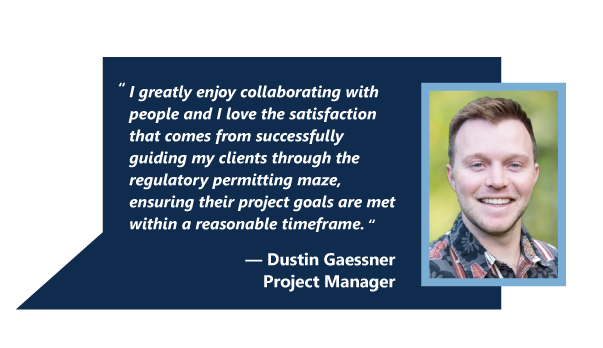
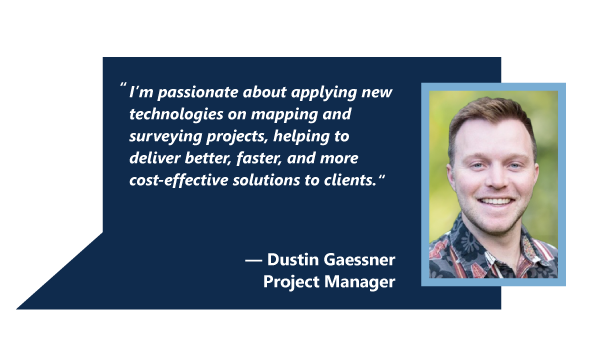
commit 2

Changed region(s): [[0.209, 0.2299, 0.6567, 0.6609], [0.1791, 0.2299, 0.209, 0.2586]]

diff --git a/index.hyperesources/index_hype_generated_script.js b/index.hyperesources/index_hype_generated_script.js
@@ -3,5 +3,5 @@
 (function(){(function m(){function k(a,b,c,d){var e=!1;null==window[a]&&(null==window[b]?(window[b]=[],window[b].push(m),a=document.getElementsByTagName("head")[0],b=document.createElement("script"),e=l,false==!0&&(e=""),b.type="text/javascript",""!=d&&(b.integrity=d,b.setAttribute("crossorigin","anonymous")),b.src=e+"/"+c,a.appendChild(b)):window[b].push(m),e=!0);return e}var l="index.hyperesources",f="index",g="index_hype_container";if(false==
 !1)try{for(var c=document.getElementsByTagName("script"),a=0;a<c.length;a++){var d=c[a].src,b=null!=d?d.indexOf("/index_hype_generated_script.js"):-1;if(-1!=b){l=d.substr(0,b);break}}}catch(p){}c=navigator.userAgent.match(/MSIE (\d+\.\d+)/);c=parseFloat(c&&c[1])||null;d=!0==(null!=window.HYPE_734F||null!=window.HYPE_dtl_734F)||false==!0||null!=c&&10>c;a=!0==d?"HYPE-734.full.min.js":"HYPE-734.thin.min.js";c=!0==d?"F":"T";d=d?"":
 "";if(false==!1&&(a=k("HYPE_734"+c,"HYPE_dtl_734"+c,a,d),false==!0&&(a=a||k("HYPE_w_734","HYPE_wdtl_734","HYPE-734.waypoints.min.js","")),false==!0&&(a=a||k("Matter","HYPE_pdtl_734","HYPE-734.physics.min.js","")),a))return;d=window.HYPE.documents;if(null!=d[f]){b=1;a=f;do f=""+a+"-"+b++;while(null!=d[f]);for(var e=document.getElementsByTagName("div"),
-b=!1,a=0;a<e.length;a++)if(e[a].id==g&&null==e[a].getAttribute("HYP_dn")){var b=1,h=g;do g=""+h+"-"+b++;while(null!=document.getElementById(g));e[a].id=g;b=!0;break}if(!1==b)return}b=[];b=[];e={};h={};for(a=0;a<b.length;a++)try{h[b[a].identifier]=b[a].name,e[b[a].name]=eval("(function(){return "+b[a].source+"})();")}catch(n){window.console&&window.console.log(n),e[b[a].name]=function(){}}c=new window["HYPE_734"+c](f,g,{"10":{p:1,n:"adrienne_quote.png",g:"252",t:"@1x"},"2":{p:1,n:"lines.png",g:"23",t:"@1x"},"15":{p:1,n:"Keith_quote.png",g:"256",o:true,t:"@1x"},"-2":{n:"blank.gif"},"3":{p:1,n:"peeps.png",g:"25",t:"@1x"},"11":{p:1,n:"zach_quote-1.png",g:"86",t:"@1x"},"4":{p:1,n:"blue_dot.png",g:"59",o:true,t:"@1x"},"16":{p:1,n:"Keith_quote_2x.png",g:"256",o:true,t:"@2x"},"5":{p:1,n:"blue_dot_2x.png",g:"59",o:true,t:"@2x"},"12":{p:1,n:"Vipul_quote.png",g:"160",t:"@1x"},"6":{p:1,n:"laurie_M_quote.png",g:"126",t:"@1x"},"13":{p:1,n:"allison_quote.png",g:"254",o:true,t:"@1x"},"7":{p:1,n:"lisa_quote.png",g:"196",t:"@1x"},"-1":{n:"PIE.htc"},"0":{p:1,n:"map.png",g:"19",t:"@1x"},"8":{p:1,n:"Dustin_quote.png",g:"214",t:"@1x"},"14":{p:1,n:"allison_quote_2x.png",g:"254",o:true,t:"@2x"},"1":{p:1,n:"state_lines.png",g:"37",t:"@1x"},"9":{p:1,n:"erlin_quote.png",g:"234",t:"@1x"}},l,[],e,[{n:"opening",o:"1",X:[0]},{n:"adrienne",o:"236",X:[1]},{n:"Erlin",o:"218",X:[2]},{n:"zach",o:"70",X:[3]},{n:"Allison",o:"88",X:[4]},{n:"Laurie",o:"110",X:[5]},{n:"vipul",o:"144",X:[6]},{n:"Keith",o:"162",X:[7]},{n:"Lisa",o:"180",X:[8]},{n:"dustin",o:"198",X:[9]}],
-[{o:"3",p:"600px",cA:false,Y:1240,Z:800,L:[],c:"#FFF",bY:1,d:1240,U:{},T:{kTimelineDefaultIdentifier:{q:false,z:2,i:"kTimelineDefaultIdentifier",n:"Main Timeline",a:[{f:"c",y:0,z:1,i:"e",e:0,s:1,o:"263"},{f:"c",y:0,z:1,i:"e",e:0,s:1,o:"268"},{f:"c",y:0,z:1,i:"e",e:0,s:1,o:"258"},{f:"c",y:0,z:1,i:"e",e:0,s:1,o:"261"},{f:"c",y:0,z:1,i:"e",e:0,s:1,o:"264"},{f:"c",y:0,z:1,i:"e",e:0,s:1,o:"266"},{f:"c",y:0,z:1,i:"e",e:0,s:1,o:"270"},{f:"c",y:0,z:1,i:"e",e:0,s:1,o:"259"},{f:"c",y:0,z:1,i:"e",e:0,s:1,o:"262"},{f:"c",y:1,z:1,i:"e",e:1,s:0,o:"263"},{f:"c",y:1,z:1,i:"e",e:1,s:0,o:"268"},{f:"c",y:1,z:1,i:"e",e:1,s:0,o:"258"},{f:"c",y:1,z:1,i:"e",e:1,s:0,o:"261"},{f:"c",y:1,z:1,i:"e",e:1,s:0,o:"264"},{f:"c",y:1,z:1,i:"e",e:1,s:0,o:"266"},{f:"c",y:1,z:1,i:"e",e:1,s:0,o:"270"},{f:"c",y:1,z:1,i:"e",e:1,s:0,o:"259"},{f:"c",y:1,z:1,i:"e",e:1,s:0,o:"262"},{f:"c",p:2,y:2,z:0,i:"ActionHandler",s:{a:[{b:"kTimelineDefaultIdentifier",p:3,z:false,symbolOid:"2"}]},o:"kTimelineDefaultIdentifier"},{y:2,i:"e",s:1,z:0,o:"263",f:"c"},{y:2,i:"e",s:1,z:0,o:"268",f:"c"},{y:2,i:"e",s:1,z:0,o:"258",f:"c"},{y:2,i:"e",s:1,z:0,o:"261",f:"c"},{y:2,i:"e",s:1,z:0,o:"264",f:"c"},{y:2,i:"e",s:1,z:0,o:"266",f:"c"},{y:2,i:"e",s:1,z:0,o:"270",f:"c"},{y:2,i:"e",s:1,z:0,o:"259",f:"c"},{y:2,i:"e",s:1,z:0,o:"262",f:"c"}],f:30,b:[]}},bZ:180,O:["260","265","269","267","259","270","263","261","264","262","268","258","266"],n:"Untitled Layout","_":0,v:{"269":{h:"19",p:"no-repeat",x:"visible",a:0,dB:"img",q:"100% 100%",j:"absolute",r:"inline",z:1,k:"div",b:0,d:800,c:1240},"258":{aD:{a:[{d:0.25,p:1,g:2,e:"144"}]},p:"no-repeat",x:"visible",h:"59",q:"100% 100%",a:149,j:"absolute",r:"inline",z:8,b:541,dB:"img",d:39,k:"div",c:39,e:1,aP:"pointer"},"264":{aD:{a:[{d:0.25,p:1,g:2,e:"162"}]},p:"no-repeat",x:"visible",h:"59",q:"100% 100%",a:487,j:"absolute",r:"inline",z:10,b:318,dB:"img",d:39,k:"div",c:39,e:1,aP:"pointer"},"270":{aD:{a:[{d:0.5,p:1,g:2,e:"180"}]},p:"no-repeat",x:"visible",h:"59",q:"100% 100%",a:793,j:"absolute",r:"inline",z:12,b:279,dB:"img",d:39,k:"div",c:39,e:1,aP:"pointer"},"267":{h:"23",p:"no-repeat",x:"visible",a:20,dB:"img",q:"100% 100%",j:"absolute",r:"inline",z:5,b:20,k:"div",d:800,c:1240,e:1},"262":{aD:{a:[{d:0.5,p:1,g:2,e:"236"}]},p:"no-repeat",x:"visible",h:"59",q:"100% 100%",a:1135,j:"absolute",r:"inline",z:14,b:464,dB:"img",d:39,k:"div",c:39,e:1,aP:"pointer"},"265":{h:"37",p:"no-repeat",x:"visible",a:0,dB:"img",q:"100% 100%",j:"absolute",r:"inline",z:2,k:"div",b:0,d:800,c:1240},"260":{h:"25",p:"no-repeat",x:"visible",a:4,dB:"img",q:"100% 100%",j:"absolute",r:"inline",z:4,k:"div",b:0,d:800,c:1240},"259":{aD:{a:[{d:0.25,p:1,g:2,e:"218"}]},p:"no-repeat",x:"visible",h:"59",q:"100% 100%",a:1019,j:"absolute",r:"inline",z:13,b:230,dB:"img",d:39,k:"div",c:39,e:1,aP:"pointer"},"268":{aD:{a:[{d:0.25,p:1,g:2,e:"110"}]},p:"no-repeat",x:"visible",h:"59",q:"100% 100%",a:85,j:"absolute",r:"inline",z:7,b:472,dB:"img",d:39,k:"div",c:39,e:1,aP:"pointer"},"263":{aD:{a:[{d:0.25,p:1,g:2,e:"70"}]},p:"no-repeat",x:"visible",h:"59",q:"100% 100%",a:124,j:"absolute",r:"inline",b:310,z:6,dB:"img",d:39,k:"div",c:39,e:1,aP:"pointer",bD:"none"},"266":{aD:{a:[{d:0.5,p:1,g:2,e:"198"}]},p:"no-repeat",x:"visible",h:"59",q:"100% 100%",a:387,j:"absolute",r:"inline",z:11,b:606,dB:"img",d:39,k:"div",c:39,e:1,aP:"pointer"},"261":{aD:{a:[{d:0.25,p:1,g:2,e:"88"}]},p:"no-repeat",x:"visible",h:"59",q:"100% 100%",a:228,j:"absolute",r:"inline",z:9,b:305,dB:"img",d:39,k:"div",c:39,e:1,aP:"pointer"}}},{o:"251",p:"600px",cA:false,Y:1240,Z:800,L:[],c:"#FFF",bY:1,d:1240,U:{},T:{kTimelineDefaultIdentifier:{q:false,z:0,i:"kTimelineDefaultIdentifier",n:"Main Timeline",a:[],f:30,b:[]}},bZ:180,O:["273","275","271","272","274","276"],n:"Untitled Layout","_":1,v:{"275":{h:"37",p:"no-repeat",x:"visible",a:0,dB:"img",q:"100% 100%",j:"absolute",r:"inline",z:2,k:"div",b:0,d:800,c:1240},"272":{h:"23",p:"no-repeat",x:"visible",a:20,dB:"img",q:"100% 100%",j:"absolute",r:"inline",z:5,b:20,k:"div",d:800,c:1240,e:1},"276":{h:"59",p:"no-repeat",x:"visible",a:1135,q:"100% 100%",b:464,j:"absolute",r:"inline",z:15,dB:"img",k:"div",d:39,c:39,e:1,aP:"pointer",aC:{a:[{d:0.25,p:1,g:2,e:"1"}]}},"273":{h:"25",p:"no-repeat",x:"visible",a:4,dB:"img",q:"100% 100%",j:"absolute",r:"inline",z:4,k:"div",b:0,d:800,c:1240},"274":{h:"252",p:"no-repeat",x:"visible",a:581,dB:"img",q:"100% 100%",j:"absolute",r:"inline",z:6,k:"div",b:442,d:348,c:603},"271":{h:"19",p:"no-repeat",x:"visible",a:0,dB:"img",q:"100% 100%",j:"absolute",r:"inline",z:1,k:"div",b:0,d:800,c:1240}}},{o:"233",p:"600px",cA:false,Y:1240,Z:800,L:[],c:"#FFF",bY:1,d:1240,U:{},T:{kTimelineDefaultIdentifier:{q:false,z:0,i:"kTimelineDefaultIdentifier",n:"Main Timeline",a:[],f:30,b:[]}},bZ:180,O:["277","281","278","279","280","282"],n:"Untitled Layout","_":2,v:{"280":{h:"234",p:"no-repeat",x:"visible",a:471,dB:"img",q:"100% 100%",j:"absolute",r:"inline",z:6,k:"div",b:203,d:348,c:603},"279":{h:"23",p:"no-repeat",x:"visible",a:20,dB:"img",q:"100% 100%",j:"absolute",r:"inline",z:5,b:20,k:"div",d:800,c:1240,e:1},"281":{h:"37",p:"no-repeat",x:"visible",a:0,dB:"img",q:"100% 100%",j:"absolute",r:"inline",z:2,k:"div",b:0,d:800,c:1240},"277":{h:"25",p:"no-repeat",x:"visible",a:4,dB:"img",q:"100% 100%",j:"absolute",r:"inline",z:4,k:"div",b:0,d:800,c:1240},"282":{h:"59",p:"no-repeat",x:"visible",a:1019,q:"100% 100%",b:230,j:"absolute",r:"inline",z:14,dB:"img",k:"div",d:39,c:39,e:1,aP:"pointer",aC:{a:[{d:0.25,p:1,g:2,e:"1"}]}},"278":{h:"19",p:"no-repeat",x:"visible",a:0,dB:"img",q:"100% 100%",j:"absolute",r:"inline",z:1,k:"div",b:0,d:800,c:1240}}},{o:"85",p:"600px",cA:false,Y:1240,Z:800,L:[],c:"#FFF",bY:1,d:1240,U:{},T:{kTimelineDefaultIdentifier:{q:false,z:0,i:"kTimelineDefaultIdentifier",n:"Main Timeline",a:[],f:30,b:[]}},bZ:180,O:["285","288","284","287","283","286"],n:"Untitled Layout","_":3,v:{"287":{h:"23",p:"no-repeat",x:"visible",a:20,dB:"img",q:"100% 100%",j:"absolute",r:"inline",z:5,b:20,k:"div",d:800,c:1240,e:1},"284":{h:"19",p:"no-repeat",x:"visible",a:0,dB:"img",q:"100% 100%",j:"absolute",r:"inline",z:1,k:"div",b:0,d:800,c:1240},"288":{h:"37",p:"no-repeat",x:"visible",a:0,dB:"img",q:"100% 100%",j:"absolute",r:"inline",z:2,k:"div",b:0,d:800,c:1240},"285":{h:"25",p:"no-repeat",x:"visible",a:4,dB:"img",q:"100% 100%",j:"absolute",r:"inline",z:4,k:"div",b:0,d:800,c:1240},"286":{h:"59",p:"no-repeat",x:"visible",a:124,q:"100% 100%",b:310,j:"absolute",r:"inline",z:7,dB:"img",k:"div",d:39,c:39,e:1,aP:"pointer",aC:{a:[{d:0.25,p:1,g:2,e:"1"}]}},"283":{h:"86",p:"no-repeat",x:"visible",a:124,dB:"img",q:"100% 100%",j:"absolute",r:"inline",z:6,k:"div",b:285,d:348,c:603}}},{o:"103",p:"600px",cA:false,Y:1240,Z:800,L:[],c:"#FFF",bY:1,d:1240,U:{},T:{kTimelineDefaultIdentifier:{q:false,z:0,i:"kTimelineDefaultIdentifier",n:"Main Timeline",a:[],f:30,b:[]}},bZ:180,O:["291","292","293","289","294","290"],n:"Untitled Layout","_":4,v:{"292":{h:"37",p:"no-repeat",x:"visible",a:0,dB:"img",q:"100% 100%",j:"absolute",r:"inline",z:2,k:"div",b:0,d:800,c:1240},"293":{h:"19",p:"no-repeat",x:"visible",a:0,dB:"img",q:"100% 100%",j:"absolute",r:"inline",z:1,k:"div",b:0,d:800,c:1240},"290":{h:"254",p:"no-repeat",x:"visible",a:257,dB:"img",q:"100% 100%",j:"absolute",r:"inline",z:10,k:"div",b:325,d:252.48,c:544.56},"289":{h:"23",p:"no-repeat",x:"visible",a:20,dB:"img",q:"100% 100%",j:"absolute",r:"inline",z:5,b:20,k:"div",d:800,c:1240,e:1},"291":{h:"25",p:"no-repeat",x:"visible",a:4,dB:"img",q:"100% 100%",j:"absolute",r:"inline",z:4,k:"div",b:0,d:800,c:1240},"294":{h:"59",p:"no-repeat",x:"visible",a:228,q:"100% 100%",b:305,j:"absolute",r:"inline",z:11,dB:"img",k:"div",d:39,c:39,e:1,aP:"pointer",aC:{a:[{d:0.25,p:1,g:2,e:"1"}]}}}},{o:"125",p:"600px",cA:false,Y:1240,Z:800,L:[],c:"#FFF",bY:1,d:1240,U:{},T:{kTimelineDefaultIdentifier:{q:false,z:0,i:"kTimelineDefaultIdentifier",n:"Main Timeline",a:[],f:30,b:[]}},bZ:180,O:["295","298","296","299","297","300"],n:"Untitled Layout","_":5,v:{"299":{h:"23",p:"no-repeat",x:"visible",a:20,dB:"img",q:"100% 100%",j:"absolute",r:"inline",z:5,b:20,k:"div",d:800,c:1240,e:1},"296":{h:"19",p:"no-repeat",x:"visible",a:0,dB:"img",q:"100% 100%",j:"absolute",r:"inline",z:1,k:"div",b:0,d:800,c:1240},"300":{h:"59",p:"no-repeat",x:"visible",a:85,q:"100% 100%",b:472,j:"absolute",r:"inline",z:8,dB:"img",k:"div",d:39,c:39,e:1,aP:"pointer",aC:{a:[{d:0.25,p:1,g:2,e:"1"}]}},"297":{h:"126",p:"no-repeat",x:"visible",a:76,dB:"img",q:"100% 100%",j:"absolute",r:"inline",z:7,k:"div",b:444,d:348,c:603},"298":{h:"37",p:"no-repeat",x:"visible",a:0,dB:"img",q:"100% 100%",j:"absolute",r:"inline",z:2,k:"div",b:0,d:800,c:1240},"295":{h:"25",p:"no-repeat",x:"visible",a:4,dB:"img",q:"100% 100%",j:"absolute",r:"inline",z:4,k:"div",b:0,d:800,c:1240}}},{o:"159",p:"600px",cA:false,Y:1240,Z:800,L:[],c:"#FFF",bY:1,d:1240,U:{},T:{kTimelineDefaultIdentifier:{q:false,z:0,i:"kTimelineDefaultIdentifier",n:"Main Timeline",a:[],f:30,b:[]}},bZ:180,O:["303","305","304","301","302","306"],n:"Untitled Layout","_":6,v:{"301":{h:"23",p:"no-repeat",x:"visible",a:20,dB:"img",q:"100% 100%",j:"absolute",r:"inline",z:5,b:20,k:"div",d:800,c:1240,e:1},"305":{h:"37",p:"no-repeat",x:"visible",a:0,dB:"img",q:"100% 100%",j:"absolute",r:"inline",z:2,k:"div",b:0,d:800,c:1240},"302":{h:"160",p:"no-repeat",x:"visible",a:133,dB:"img",q:"100% 100%",j:"absolute",r:"inline",z:6,k:"div",b:267,d:348,c:603},"306":{h:"59",p:"no-repeat",x:"visible",a:149,q:"100% 100%",b:541,j:"absolute",r:"inline",z:9,dB:"img",k:"div",d:39,c:39,e:1,aP:"pointer",aC:{a:[{d:0.25,p:1,g:2,e:"1"}]}},"303":{h:"25",p:"no-repeat",x:"visible",a:4,dB:"img",q:"100% 100%",j:"absolute",r:"inline",z:4,k:"div",b:0,d:800,c:1240},"304":{h:"19",p:"no-repeat",x:"visible",a:0,dB:"img",q:"100% 100%",j:"absolute",r:"inline",z:1,k:"div",b:0,d:800,c:1240}}},{o:"177",p:"600px",cA:false,Y:1240,Z:800,L:[],c:"#FFF",bY:1,d:1240,U:{},T:{kTimelineDefaultIdentifier:{q:false,z:0,i:"kTimelineDefaultIdentifier",n:"Main Timeline",a:[],f:30,b:[]}},bZ:180,O:["312","311","308","309","310","307"],n:"Untitled Layout","_":7,v:{"308":{h:"19",p:"no-repeat",x:"visible",a:0,dB:"img",q:"100% 100%",j:"absolute",r:"inline",z:1,k:"div",b:0,d:800,c:1240},"310":{h:"59",p:"no-repeat",x:"visible",a:487,q:"100% 100%",b:318,j:"absolute",r:"inline",z:12,dB:"img",k:"div",d:39,c:39,e:1,aP:"pointer",aC:{a:[{d:0.25,p:1,g:2,e:"1"}]}},"309":{h:"23",p:"no-repeat",x:"visible",a:20,dB:"img",q:"100% 100%",j:"absolute",r:"inline",z:5,b:20,k:"div",d:800,c:1240,e:1},"311":{h:"37",p:"no-repeat",x:"visible",a:0,dB:"img",q:"100% 100%",j:"absolute",r:"inline",z:2,k:"div",b:0,d:800,c:1240},"307":{h:"256",p:"no-repeat",x:"visible",a:507,dB:"img",q:"100% 100%",j:"absolute",r:"inline",z:11,k:"div",b:338,d:252.48,c:541.44},"312":{h:"25",p:"no-repeat",x:"visible",a:4,dB:"img",q:"100% 100%",j:"absolute",r:"inline",z:4,k:"div",b:0,d:800,c:1240}}},{o:"195",p:"600px",cA:false,Y:1240,Z:800,L:[],c:"#FFF",bY:1,d:1240,U:{},T:{kTimelineDefaultIdentifier:{q:false,z:2,i:"kTimelineDefaultIdentifier",n:"Main Timeline",a:[{f:"c",y:0,z:1,i:"e",e:0,s:1,o:"316"},{f:"c",y:1,z:1,i:"e",e:1,s:0,o:"316"},{f:"c",p:2,y:2,z:0,i:"ActionHandler",s:{a:[{b:"kTimelineDefaultIdentifier",p:3,z:false,symbolOid:"2"}]},o:"kTimelineDefaultIdentifier"},{y:2,i:"e",s:1,z:0,o:"316",f:"c"}],f:30,b:[]}},bZ:180,O:["313","318","314","317","315","316"],n:"Untitled Layout","_":8,v:{"313":{h:"25",p:"no-repeat",x:"visible",a:4,dB:"img",q:"100% 100%",j:"absolute",r:"inline",z:4,k:"div",b:0,d:800,c:1240},"317":{h:"23",p:"no-repeat",x:"visible",a:20,dB:"img",q:"100% 100%",j:"absolute",r:"inline",z:5,b:20,k:"div",d:800,c:1240,e:1},"314":{h:"19",p:"no-repeat",x:"visible",a:0,dB:"img",q:"100% 100%",j:"absolute",r:"inline",z:1,k:"div",b:0,d:800,c:1240},"318":{h:"37",p:"no-repeat",x:"visible",a:0,dB:"img",q:"100% 100%",j:"absolute",r:"inline",z:2,k:"div",b:0,d:800,c:1240},"315":{h:"196",p:"no-repeat",x:"visible",a:245,dB:"img",q:"100% 100%",j:"absolute",r:"inline",z:6,k:"div",b:255,d:348,c:603},"316":{h:"59",p:"no-repeat",x:"visible",a:793,q:"100% 100%",b:279,j:"absolute",r:"inline",z:13,dB:"img",k:"div",d:39,c:39,e:1,aP:"pointer",aC:{a:[{d:0.5,p:1,g:2,e:"1"}]}}}},{o:"213",p:"600px",cA:false,Y:1240,Z:800,L:[],c:"#FFF",bY:1,d:1240,U:{},T:{kTimelineDefaultIdentifier:{q:false,z:0,i:"kTimelineDefaultIdentifier",n:"Main Timeline",a:[],f:30,b:[]}},bZ:180,O:["323","322","320","319","321","324"],n:"Untitled Layout","_":9,v:{"324":{h:"59",p:"no-repeat",x:"visible",a:387,q:"100% 100%",b:606,j:"absolute",r:"inline",z:12,dB:"img",k:"div",d:39,c:39,e:1,aP:"pointer",aC:{a:[{d:0.25,p:1,g:2,e:"1"}]}},"322":{h:"37",p:"no-repeat",x:"visible",a:0,dB:"img",q:"100% 100%",j:"absolute",r:"inline",z:2,k:"div",b:0,d:800,c:1240},"323":{h:"25",p:"no-repeat",x:"visible",a:4,dB:"img",q:"100% 100%",j:"absolute",r:"inline",z:4,k:"div",b:0,d:800,c:1240},"320":{h:"19",p:"no-repeat",x:"visible",a:0,dB:"img",q:"100% 100%",j:"absolute",r:"inline",z:1,k:"div",b:0,d:800,c:1240},"319":{h:"23",p:"no-repeat",x:"visible",a:20,dB:"img",q:"100% 100%",j:"absolute",r:"inline",z:5,b:20,k:"div",d:800,c:1240,e:1},"321":{h:"214",p:"no-repeat",x:"visible",a:394,dB:"img",q:"100% 100%",j:"absolute",r:"inline",z:6,k:"div",b:322,d:348,c:603}}}],{},h,{},null,false,true,-1,true,true,false,true,true);d[f]=c.API;document.getElementById(g).setAttribute("HYP_dn",f);c.z_o(this.body)})();})();
+b=!1,a=0;a<e.length;a++)if(e[a].id==g&&null==e[a].getAttribute("HYP_dn")){var b=1,h=g;do g=""+h+"-"+b++;while(null!=document.getElementById(g));e[a].id=g;b=!0;break}if(!1==b)return}b=[];b=[];e={};h={};for(a=0;a<b.length;a++)try{h[b[a].identifier]=b[a].name,e[b[a].name]=eval("(function(){return "+b[a].source+"})();")}catch(n){window.console&&window.console.log(n),e[b[a].name]=function(){}}c=new window["HYPE_734"+c](f,g,{"10":{p:1,n:"Keith_quote.png",g:"256",o:true,t:"@1x"},"2":{p:1,n:"peeps.png",g:"25",t:"@1x"},"15":{p:1,n:"blue_dot_2x.png",g:"59",o:true,t:"@2x"},"-2":{n:"blank.gif"},"3":{p:1,n:"laurie_M_quote.png",g:"126",t:"@1x"},"11":{p:1,n:"Keith_quote_2x.png",g:"256",o:true,t:"@2x"},"4":{p:1,n:"lisa_quote.png",g:"196",t:"@1x"},"16":{p:1,n:"Rose_quote.png",g:"86",t:"@1x"},"5":{p:1,n:"erlin_quote.png",g:"234",t:"@1x"},"12":{p:1,n:"Dustin_quote.png",g:"214",t:"@1x"},"6":{p:1,n:"adrienne_quote.png",g:"252",t:"@1x"},"13":{p:1,n:"map.png",g:"19",t:"@1x"},"7":{p:1,n:"Vipul_quote.png",g:"160",t:"@1x"},"-1":{n:"PIE.htc"},"0":{p:1,n:"state_lines.png",g:"37",t:"@1x"},"8":{p:1,n:"allison_quote.png",g:"254",o:true,t:"@1x"},"14":{p:1,n:"blue_dot.png",g:"59",o:true,t:"@1x"},"1":{p:1,n:"lines.png",g:"23",t:"@1x"},"9":{p:1,n:"allison_quote_2x.png",g:"254",o:true,t:"@2x"}},l,[],e,[{n:"opening",o:"1",X:[0]},{n:"adrienne",o:"236",X:[1]},{n:"Erlin",o:"218",X:[2]},{n:"Rose",o:"258",X:[3]},{n:"Allison",o:"88",X:[4]},{n:"Laurie",o:"110",X:[5]},{n:"vipul",o:"144",X:[6]},{n:"Keith",o:"162",X:[7]},{n:"Lisa",o:"180",X:[8]},{n:"dustin",o:"198",X:[9]}],
+[{o:"3",p:"600px",cA:false,Y:1240,Z:800,L:[],c:"#FFF",bY:1,d:1240,U:{},T:{kTimelineDefaultIdentifier:{q:false,z:2,i:"kTimelineDefaultIdentifier",n:"Main Timeline",a:[{f:"c",y:0,z:1,i:"e",e:0,s:1,o:"272"},{f:"c",y:0,z:1,i:"e",e:0,s:1,o:"277"},{f:"c",y:0,z:1,i:"e",e:0,s:1,o:"267"},{f:"c",y:0,z:1,i:"e",e:0,s:1,o:"270"},{f:"c",y:0,z:1,i:"e",e:0,s:1,o:"273"},{f:"c",y:0,z:1,i:"e",e:0,s:1,o:"275"},{f:"c",y:0,z:1,i:"e",e:0,s:1,o:"279"},{f:"c",y:0,z:1,i:"e",e:0,s:1,o:"268"},{f:"c",y:0,z:1,i:"e",e:0,s:1,o:"271"},{f:"c",y:1,z:1,i:"e",e:1,s:0,o:"272"},{f:"c",y:1,z:1,i:"e",e:1,s:0,o:"277"},{f:"c",y:1,z:1,i:"e",e:1,s:0,o:"267"},{f:"c",y:1,z:1,i:"e",e:1,s:0,o:"270"},{f:"c",y:1,z:1,i:"e",e:1,s:0,o:"273"},{f:"c",y:1,z:1,i:"e",e:1,s:0,o:"275"},{f:"c",y:1,z:1,i:"e",e:1,s:0,o:"279"},{f:"c",y:1,z:1,i:"e",e:1,s:0,o:"268"},{f:"c",y:1,z:1,i:"e",e:1,s:0,o:"271"},{f:"c",p:2,y:2,z:0,i:"ActionHandler",s:{a:[{b:"kTimelineDefaultIdentifier",p:3,z:false,symbolOid:"2"}]},o:"kTimelineDefaultIdentifier"},{y:2,i:"e",s:1,z:0,o:"272",f:"c"},{y:2,i:"e",s:1,z:0,o:"277",f:"c"},{y:2,i:"e",s:1,z:0,o:"267",f:"c"},{y:2,i:"e",s:1,z:0,o:"270",f:"c"},{y:2,i:"e",s:1,z:0,o:"273",f:"c"},{y:2,i:"e",s:1,z:0,o:"275",f:"c"},{y:2,i:"e",s:1,z:0,o:"279",f:"c"},{y:2,i:"e",s:1,z:0,o:"268",f:"c"},{y:2,i:"e",s:1,z:0,o:"271",f:"c"}],f:30,b:[]}},bZ:180,O:["269","274","278","276","268","279","272","270","273","271","277","267","275"],n:"Untitled Layout","_":0,v:{"269":{h:"25",p:"no-repeat",x:"visible",a:4,dB:"img",q:"100% 100%",j:"absolute",r:"inline",z:4,k:"div",b:0,d:800,c:1240},"270":{aD:{a:[{d:0.25,p:1,g:2,e:"88"}]},p:"no-repeat",x:"visible",h:"59",q:"100% 100%",a:228,j:"absolute",r:"inline",z:9,b:305,dB:"img",d:39,k:"div",c:39,e:1,aP:"pointer"},"275":{aD:{a:[{d:0.5,p:1,g:2,e:"198"}]},p:"no-repeat",x:"visible",h:"59",q:"100% 100%",a:387,j:"absolute",r:"inline",z:11,b:606,dB:"img",d:39,k:"div",c:39,e:1,aP:"pointer"},"278":{h:"19",p:"no-repeat",x:"visible",a:0,dB:"img",q:"100% 100%",j:"absolute",r:"inline",z:1,k:"div",b:0,d:800,c:1240},"267":{aD:{a:[{d:0.25,p:1,g:2,e:"144"}]},p:"no-repeat",x:"visible",h:"59",q:"100% 100%",a:149,j:"absolute",r:"inline",z:8,b:541,dB:"img",d:39,k:"div",c:39,e:1,aP:"pointer"},"273":{aD:{a:[{d:0.25,p:1,g:2,e:"162"}]},p:"no-repeat",x:"visible",h:"59",q:"100% 100%",a:487,j:"absolute",r:"inline",z:10,b:318,dB:"img",d:39,k:"div",c:39,e:1,aP:"pointer"},"276":{h:"23",p:"no-repeat",x:"visible",a:20,dB:"img",q:"100% 100%",j:"absolute",r:"inline",z:5,b:20,k:"div",d:800,c:1240,e:1},"271":{aD:{a:[{d:0.5,p:1,g:2,e:"236"}]},p:"no-repeat",x:"visible",h:"59",q:"100% 100%",a:1135,j:"absolute",r:"inline",z:14,b:464,dB:"img",d:39,k:"div",c:39,e:1,aP:"pointer"},"279":{aD:{a:[{d:0.5,p:1,g:2,e:"180"}]},p:"no-repeat",x:"visible",h:"59",q:"100% 100%",a:793,j:"absolute",r:"inline",z:12,b:279,dB:"img",d:39,k:"div",c:39,e:1,aP:"pointer"},"268":{aD:{a:[{d:0.25,p:1,g:2,e:"218"}]},p:"no-repeat",x:"visible",h:"59",q:"100% 100%",a:1019,j:"absolute",r:"inline",z:13,b:230,dB:"img",d:39,k:"div",c:39,e:1,aP:"pointer"},"274":{h:"37",p:"no-repeat",x:"visible",a:0,dB:"img",q:"100% 100%",j:"absolute",r:"inline",z:2,k:"div",b:0,d:800,c:1240},"277":{aD:{a:[{d:0.25,p:1,g:2,e:"110"}]},p:"no-repeat",x:"visible",h:"59",q:"100% 100%",a:85,j:"absolute",r:"inline",z:7,b:472,dB:"img",d:39,k:"div",c:39,e:1,aP:"pointer"},"272":{aD:{a:[{d:0.25,p:1,g:2,e:"258"}]},p:"no-repeat",x:"visible",h:"59",q:"100% 100%",a:124,j:"absolute",r:"inline",b:310,z:6,dB:"img",d:39,k:"div",c:39,e:1,aP:"pointer",bD:"none"}}},{o:"251",p:"600px",cA:false,Y:1240,Z:800,L:[],c:"#FFF",bY:1,d:1240,U:{},T:{kTimelineDefaultIdentifier:{q:false,z:0,i:"kTimelineDefaultIdentifier",n:"Main Timeline",a:[],f:30,b:[]}},bZ:180,O:["282","284","280","281","283","285"],n:"Untitled Layout","_":1,v:{"280":{h:"19",p:"no-repeat",x:"visible",a:0,dB:"img",q:"100% 100%",j:"absolute",r:"inline",z:1,k:"div",b:0,d:800,c:1240},"284":{h:"37",p:"no-repeat",x:"visible",a:0,dB:"img",q:"100% 100%",j:"absolute",r:"inline",z:2,k:"div",b:0,d:800,c:1240},"281":{h:"23",p:"no-repeat",x:"visible",a:20,dB:"img",q:"100% 100%",j:"absolute",r:"inline",z:5,b:20,k:"div",d:800,c:1240,e:1},"285":{h:"59",p:"no-repeat",x:"visible",a:1135,q:"100% 100%",b:464,j:"absolute",r:"inline",z:15,dB:"img",k:"div",d:39,c:39,e:1,aP:"pointer",aC:{a:[{d:0.25,p:1,g:2,e:"1"}]}},"282":{h:"25",p:"no-repeat",x:"visible",a:4,dB:"img",q:"100% 100%",j:"absolute",r:"inline",z:4,k:"div",b:0,d:800,c:1240},"283":{h:"252",p:"no-repeat",x:"visible",a:581,dB:"img",q:"100% 100%",j:"absolute",r:"inline",z:6,k:"div",b:442,d:348,c:603}}},{o:"233",p:"600px",cA:false,Y:1240,Z:800,L:[],c:"#FFF",bY:1,d:1240,U:{},T:{kTimelineDefaultIdentifier:{q:false,z:0,i:"kTimelineDefaultIdentifier",n:"Main Timeline",a:[],f:30,b:[]}},bZ:180,O:["286","290","287","288","289","291"],n:"Untitled Layout","_":2,v:{"287":{h:"19",p:"no-repeat",x:"visible",a:0,dB:"img",q:"100% 100%",j:"absolute",r:"inline",z:1,k:"div",b:0,d:800,c:1240},"288":{h:"23",p:"no-repeat",x:"visible",a:20,dB:"img",q:"100% 100%",j:"absolute",r:"inline",z:5,b:20,k:"div",d:800,c:1240,e:1},"290":{h:"37",p:"no-repeat",x:"visible",a:0,dB:"img",q:"100% 100%",j:"absolute",r:"inline",z:2,k:"div",b:0,d:800,c:1240},"289":{h:"234",p:"no-repeat",x:"visible",a:471,dB:"img",q:"100% 100%",j:"absolute",r:"inline",z:6,k:"div",b:203,d:348,c:603},"286":{h:"25",p:"no-repeat",x:"visible",a:4,dB:"img",q:"100% 100%",j:"absolute",r:"inline",z:4,k:"div",b:0,d:800,c:1240},"291":{h:"59",p:"no-repeat",x:"visible",a:1019,q:"100% 100%",b:230,j:"absolute",r:"inline",z:14,dB:"img",k:"div",d:39,c:39,e:1,aP:"pointer",aC:{a:[{d:0.25,p:1,g:2,e:"1"}]}}}},{o:"266",p:"600px",cA:false,Y:1240,Z:800,L:[],c:"#FFF",bY:1,d:1240,U:{},T:{kTimelineDefaultIdentifier:{q:false,z:0,i:"kTimelineDefaultIdentifier",n:"Main Timeline",a:[],f:30,b:[]}},bZ:180,O:["297","296","295","294","293","292"],n:"Untitled Layout","_":3,v:{"292":{h:"59",p:"no-repeat",x:"visible",a:124,q:"100% 100%",b:310,j:"absolute",r:"inline",z:7,dB:"img",k:"div",d:39,c:39,e:1,aP:"pointer",aC:{a:[{d:0.25,p:1,g:2,e:"1"}]}},"296":{h:"37",p:"no-repeat",x:"visible",a:0,dB:"img",q:"100% 100%",j:"absolute",r:"inline",z:2,k:"div",b:0,d:800,c:1240},"293":{h:"86",p:"no-repeat",x:"visible",a:124,dB:"img",q:"100% 100%",j:"absolute",r:"inline",z:6,k:"div",b:285,d:348,c:603},"297":{h:"25",p:"no-repeat",x:"visible",a:4,dB:"img",q:"100% 100%",j:"absolute",r:"inline",z:4,k:"div",b:0,d:800,c:1240},"294":{h:"23",p:"no-repeat",x:"visible",a:20,dB:"img",q:"100% 100%",j:"absolute",r:"inline",z:5,b:20,k:"div",d:800,c:1240,e:1},"295":{h:"19",p:"no-repeat",x:"visible",a:0,dB:"img",q:"100% 100%",j:"absolute",r:"inline",z:1,k:"div",b:0,d:800,c:1240}}},{o:"103",p:"600px",cA:false,Y:1240,Z:800,L:[],c:"#FFF",bY:1,d:1240,U:{},T:{kTimelineDefaultIdentifier:{q:false,z:0,i:"kTimelineDefaultIdentifier",n:"Main Timeline",a:[],f:30,b:[]}},bZ:180,O:["300","301","302","298","303","299"],n:"Untitled Layout","_":4,v:{"299":{h:"254",p:"no-repeat",x:"visible",a:257,dB:"img",q:"100% 100%",j:"absolute",r:"inline",z:10,k:"div",b:325,d:252.48,c:544.56},"301":{h:"37",p:"no-repeat",x:"visible",a:0,dB:"img",q:"100% 100%",j:"absolute",r:"inline",z:2,k:"div",b:0,d:800,c:1240},"302":{h:"19",p:"no-repeat",x:"visible",a:0,dB:"img",q:"100% 100%",j:"absolute",r:"inline",z:1,k:"div",b:0,d:800,c:1240},"303":{h:"59",p:"no-repeat",x:"visible",a:228,q:"100% 100%",b:305,j:"absolute",r:"inline",z:11,dB:"img",k:"div",d:39,c:39,e:1,aP:"pointer",aC:{a:[{d:0.25,p:1,g:2,e:"1"}]}},"298":{h:"23",p:"no-repeat",x:"visible",a:20,dB:"img",q:"100% 100%",j:"absolute",r:"inline",z:5,b:20,k:"div",d:800,c:1240,e:1},"300":{h:"25",p:"no-repeat",x:"visible",a:4,dB:"img",q:"100% 100%",j:"absolute",r:"inline",z:4,k:"div",b:0,d:800,c:1240}}},{o:"125",p:"600px",cA:false,Y:1240,Z:800,L:[],c:"#FFF",bY:1,d:1240,U:{},T:{kTimelineDefaultIdentifier:{q:false,z:0,i:"kTimelineDefaultIdentifier",n:"Main Timeline",a:[],f:30,b:[]}},bZ:180,O:["304","307","305","308","306","309"],n:"Untitled Layout","_":5,v:{"308":{h:"23",p:"no-repeat",x:"visible",a:20,dB:"img",q:"100% 100%",j:"absolute",r:"inline",z:5,b:20,k:"div",d:800,c:1240,e:1},"305":{h:"19",p:"no-repeat",x:"visible",a:0,dB:"img",q:"100% 100%",j:"absolute",r:"inline",z:1,k:"div",b:0,d:800,c:1240},"309":{h:"59",p:"no-repeat",x:"visible",a:85,q:"100% 100%",b:472,j:"absolute",r:"inline",z:8,dB:"img",k:"div",d:39,c:39,e:1,aP:"pointer",aC:{a:[{d:0.25,p:1,g:2,e:"1"}]}},"306":{h:"126",p:"no-repeat",x:"visible",a:76,dB:"img",q:"100% 100%",j:"absolute",r:"inline",z:7,k:"div",b:444,d:348,c:603},"307":{h:"37",p:"no-repeat",x:"visible",a:0,dB:"img",q:"100% 100%",j:"absolute",r:"inline",z:2,k:"div",b:0,d:800,c:1240},"304":{h:"25",p:"no-repeat",x:"visible",a:4,dB:"img",q:"100% 100%",j:"absolute",r:"inline",z:4,k:"div",b:0,d:800,c:1240}}},{o:"159",p:"600px",cA:false,Y:1240,Z:800,L:[],c:"#FFF",bY:1,d:1240,U:{},T:{kTimelineDefaultIdentifier:{q:false,z:0,i:"kTimelineDefaultIdentifier",n:"Main Timeline",a:[],f:30,b:[]}},bZ:180,O:["312","314","313","310","311","315"],n:"Untitled Layout","_":6,v:{"313":{h:"19",p:"no-repeat",x:"visible",a:0,dB:"img",q:"100% 100%",j:"absolute",r:"inline",z:1,k:"div",b:0,d:800,c:1240},"310":{h:"23",p:"no-repeat",x:"visible",a:20,dB:"img",q:"100% 100%",j:"absolute",r:"inline",z:5,b:20,k:"div",d:800,c:1240,e:1},"314":{h:"37",p:"no-repeat",x:"visible",a:0,dB:"img",q:"100% 100%",j:"absolute",r:"inline",z:2,k:"div",b:0,d:800,c:1240},"311":{h:"160",p:"no-repeat",x:"visible",a:133,dB:"img",q:"100% 100%",j:"absolute",r:"inline",z:6,k:"div",b:267,d:348,c:603},"315":{h:"59",p:"no-repeat",x:"visible",a:149,q:"100% 100%",b:541,j:"absolute",r:"inline",z:9,dB:"img",k:"div",d:39,c:39,e:1,aP:"pointer",aC:{a:[{d:0.25,p:1,g:2,e:"1"}]}},"312":{h:"25",p:"no-repeat",x:"visible",a:4,dB:"img",q:"100% 100%",j:"absolute",r:"inline",z:4,k:"div",b:0,d:800,c:1240}}},{o:"177",p:"600px",cA:false,Y:1240,Z:800,L:[],c:"#FFF",bY:1,d:1240,U:{},T:{kTimelineDefaultIdentifier:{q:false,z:0,i:"kTimelineDefaultIdentifier",n:"Main Timeline",a:[],f:30,b:[]}},bZ:180,O:["321","320","317","318","319","316"],n:"Untitled Layout","_":7,v:{"321":{h:"25",p:"no-repeat",x:"visible",a:4,dB:"img",q:"100% 100%",j:"absolute",r:"inline",z:4,k:"div",b:0,d:800,c:1240},"317":{h:"19",p:"no-repeat",x:"visible",a:0,dB:"img",q:"100% 100%",j:"absolute",r:"inline",z:1,k:"div",b:0,d:800,c:1240},"318":{h:"23",p:"no-repeat",x:"visible",a:20,dB:"img",q:"100% 100%",j:"absolute",r:"inline",z:5,b:20,k:"div",d:800,c:1240,e:1},"320":{h:"37",p:"no-repeat",x:"visible",a:0,dB:"img",q:"100% 100%",j:"absolute",r:"inline",z:2,k:"div",b:0,d:800,c:1240},"319":{h:"59",p:"no-repeat",x:"visible",a:487,q:"100% 100%",b:318,j:"absolute",r:"inline",z:12,dB:"img",k:"div",d:39,c:39,e:1,aP:"pointer",aC:{a:[{d:0.25,p:1,g:2,e:"1"}]}},"316":{h:"256",p:"no-repeat",x:"visible",a:507,dB:"img",q:"100% 100%",j:"absolute",r:"inline",z:11,k:"div",b:338,d:252.48,c:541.44}}},{o:"195",p:"600px",cA:false,Y:1240,Z:800,L:[],c:"#FFF",bY:1,d:1240,U:{},T:{kTimelineDefaultIdentifier:{q:false,z:2,i:"kTimelineDefaultIdentifier",n:"Main Timeline",a:[{f:"c",y:0,z:1,i:"e",e:0,s:1,o:"325"},{f:"c",y:1,z:1,i:"e",e:1,s:0,o:"325"},{f:"c",p:2,y:2,z:0,i:"ActionHandler",s:{a:[{b:"kTimelineDefaultIdentifier",p:3,z:false,symbolOid:"2"}]},o:"kTimelineDefaultIdentifier"},{y:2,i:"e",s:1,z:0,o:"325",f:"c"}],f:30,b:[]}},bZ:180,O:["322","327","323","326","324","325"],n:"Untitled Layout","_":8,v:{"325":{h:"59",p:"no-repeat",x:"visible",a:793,q:"100% 100%",b:279,j:"absolute",r:"inline",z:13,dB:"img",k:"div",d:39,c:39,e:1,aP:"pointer",aC:{a:[{d:0.5,p:1,g:2,e:"1"}]}},"322":{h:"25",p:"no-repeat",x:"visible",a:4,dB:"img",q:"100% 100%",j:"absolute",r:"inline",z:4,k:"div",b:0,d:800,c:1240},"326":{h:"23",p:"no-repeat",x:"visible",a:20,dB:"img",q:"100% 100%",j:"absolute",r:"inline",z:5,b:20,k:"div",d:800,c:1240,e:1},"323":{h:"19",p:"no-repeat",x:"visible",a:0,dB:"img",q:"100% 100%",j:"absolute",r:"inline",z:1,k:"div",b:0,d:800,c:1240},"327":{h:"37",p:"no-repeat",x:"visible",a:0,dB:"img",q:"100% 100%",j:"absolute",r:"inline",z:2,k:"div",b:0,d:800,c:1240},"324":{h:"196",p:"no-repeat",x:"visible",a:245,dB:"img",q:"100% 100%",j:"absolute",r:"inline",z:6,k:"div",b:255,d:348,c:603}}},{o:"213",p:"600px",cA:false,Y:1240,Z:800,L:[],c:"#FFF",bY:1,d:1240,U:{},T:{kTimelineDefaultIdentifier:{q:false,z:0,i:"kTimelineDefaultIdentifier",n:"Main Timeline",a:[],f:30,b:[]}},bZ:180,O:["332","331","329","328","330","333"],n:"Untitled Layout","_":9,v:{"330":{h:"214",p:"no-repeat",x:"visible",a:394,dB:"img",q:"100% 100%",j:"absolute",r:"inline",z:6,k:"div",b:322,d:348,c:603},"329":{h:"19",p:"no-repeat",x:"visible",a:0,dB:"img",q:"100% 100%",j:"absolute",r:"inline",z:1,k:"div",b:0,d:800,c:1240},"331":{h:"37",p:"no-repeat",x:"visible",a:0,dB:"img",q:"100% 100%",j:"absolute",r:"inline",z:2,k:"div",b:0,d:800,c:1240},"333":{h:"59",p:"no-repeat",x:"visible",a:387,q:"100% 100%",b:606,j:"absolute",r:"inline",z:12,dB:"img",k:"div",d:39,c:39,e:1,aP:"pointer",aC:{a:[{d:0.25,p:1,g:2,e:"1"}]}},"332":{h:"25",p:"no-repeat",x:"visible",a:4,dB:"img",q:"100% 100%",j:"absolute",r:"inline",z:4,k:"div",b:0,d:800,c:1240},"328":{h:"23",p:"no-repeat",x:"visible",a:20,dB:"img",q:"100% 100%",j:"absolute",r:"inline",z:5,b:20,k:"div",d:800,c:1240,e:1}}}],{},h,{},null,false,true,-1,true,true,false,true,true);d[f]=c.API;document.getElementById(g).setAttribute("HYP_dn",f);c.z_o(this.body)})();})();

diff --git a/index.html b/index.html
@@ -24,7 +24,7 @@
 	<!-- copy these lines to your document: -->
 
 	<div id="index_hype_container" class="HYPE_document" style="margin:auto;position:relative;width:1240px;height:800px;overflow:hidden;">
-		<script type="text/javascript" charset="utf-8" src="index.hyperesources/index_hype_generated_script.js?50841"></script>
+		<script type="text/javascript" charset="utf-8" src="index.hyperesources/index_hype_generated_script.js?64206"></script>
 	</div>
 
 	<!-- end copy -->
